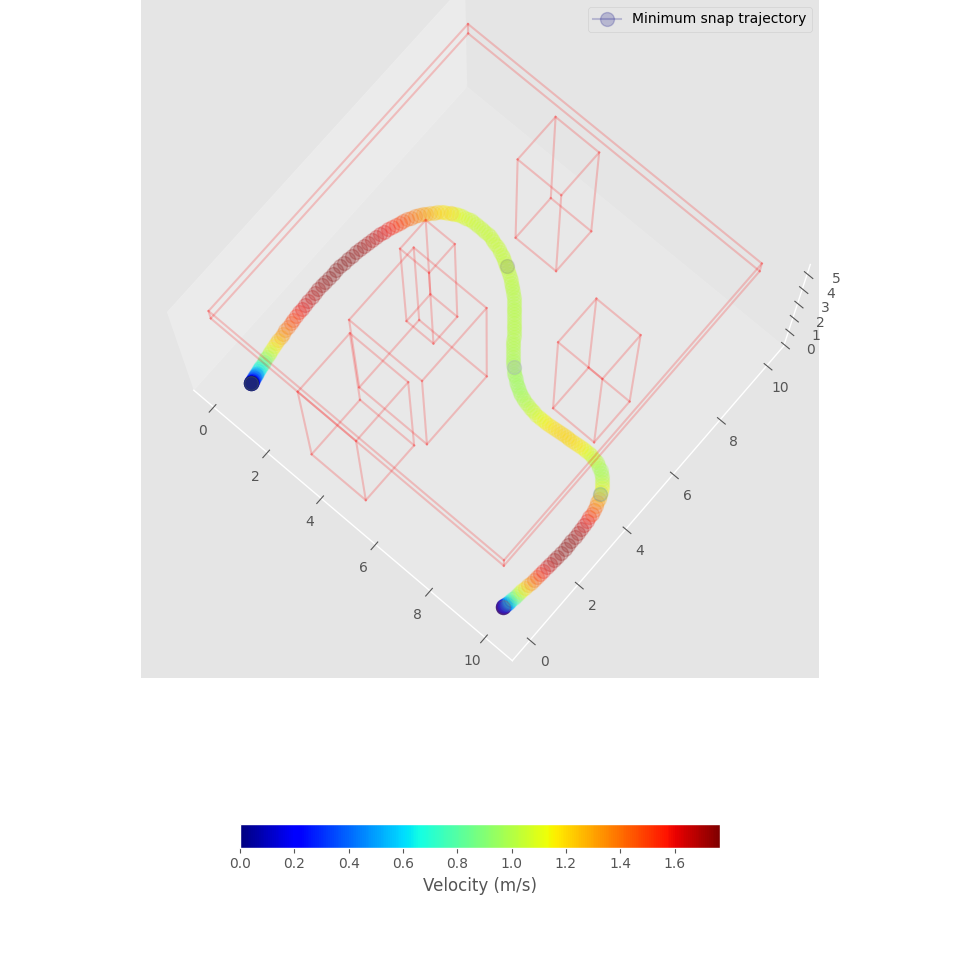
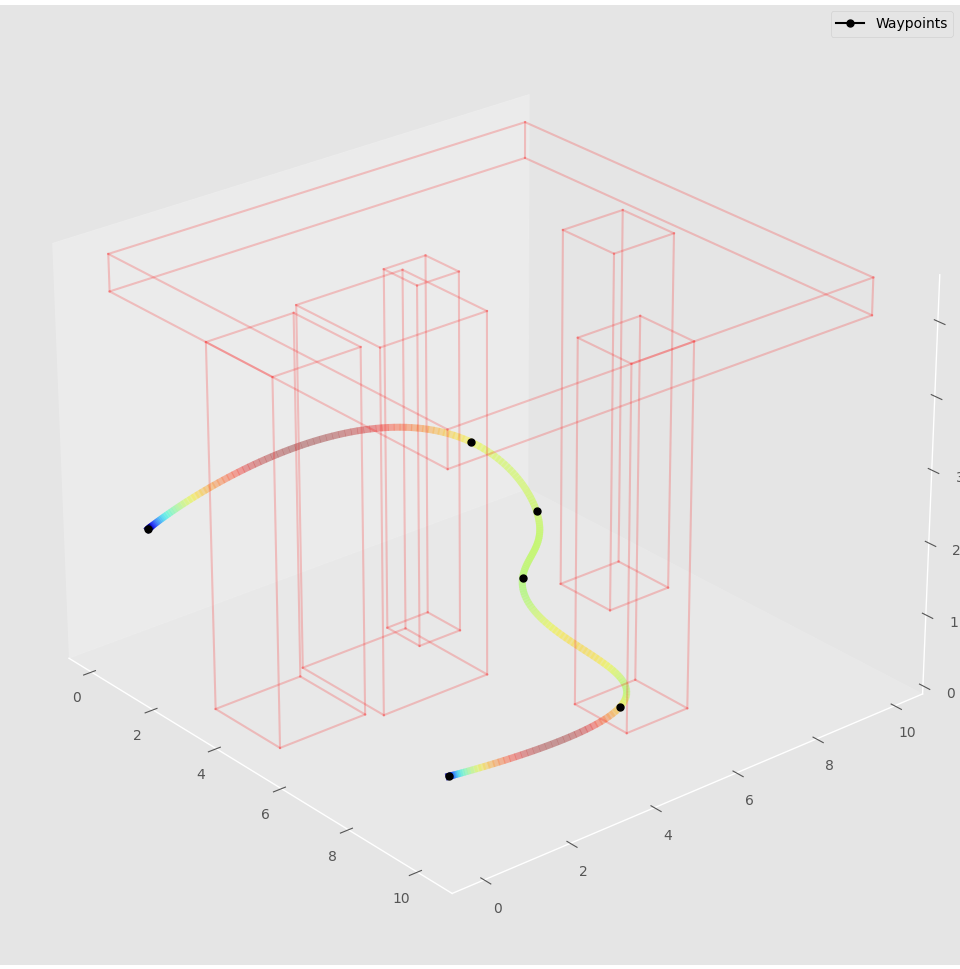
Refactor draw trajectory

diff --git a/planning/trajectory.py b/planning/trajectory.py
@@ -125,14 +125,18 @@ def plot_3d_trajectory_and_obstacle(ax, waypoints, trajectory_obj):
     # plot min snap trajectory
     for i in range(len(trajectory)):
         label = "Minimum snap trajectory" if i == 0 else None
-        ax.plot(
-            trajectory[i, 0], trajectory[i, 1], trajectory[i, 2],
-            marker='.', alpha=.2, markersize=20, color=colors[i], label=label)
+        if i > 0:
+            ax.plot(
+                [trajectory[i - 1, 0], trajectory[i, 0]],
+                [trajectory[i - 1, 1], trajectory[i, 1]],
+                [trajectory[i - 1, 2], trajectory[i, 2]],
+                color=colors[i], alpha=.2, linewidth=5, label=label)
+
 
     # plot waypoints
     for i in range(len(waypoints)):
         x, y, z = waypoints[i]
-        ax.plot(x, y, z, marker=".", markersize=20, alpha=.2)
+        ax.plot(x, y, z, marker=".", markersize=10, color="black", label="Waypoints" if i == 0 else None)
 
     if len(trajectory_obj.obstacle_edges) > 0:
         # plot obstacles edges
@@ -164,7 +168,7 @@ if __name__ == "__main__":
                                 [5.0, 5.0, 10., 0.5, 5.0]])
 
     T = MinimumSnap(waypoints, velocity=1.0, dt=0.02)
-    T.generate_collision_free_trajectory(coord_obstacles=None)
+    T.generate_collision_free_trajectory(coord_obstacles=coord_obstacles)
 
     fig = plt.figure(figsize=(20, 20))
     ax = fig.add_subplot(111, projection='3d')
